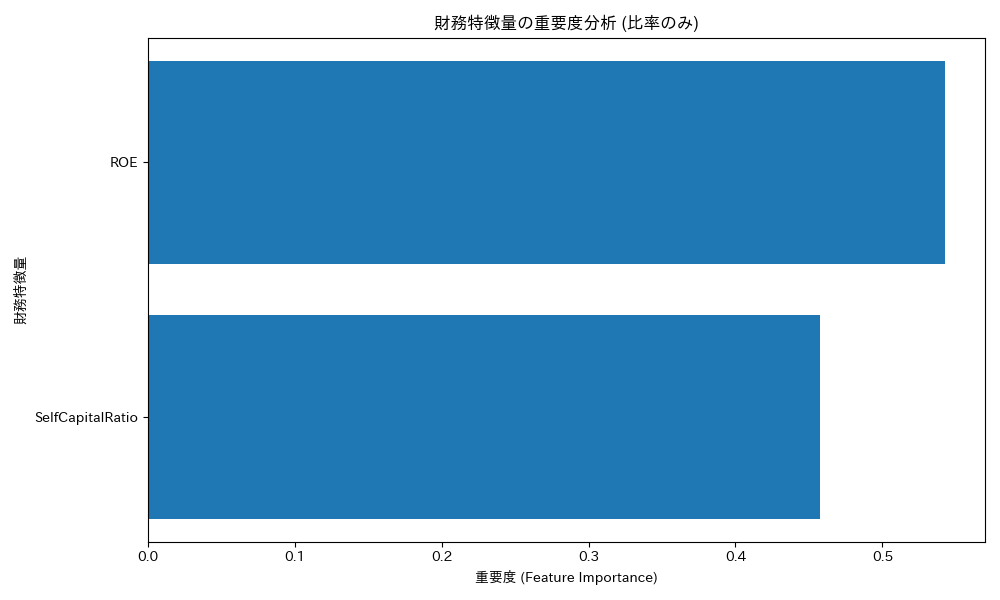
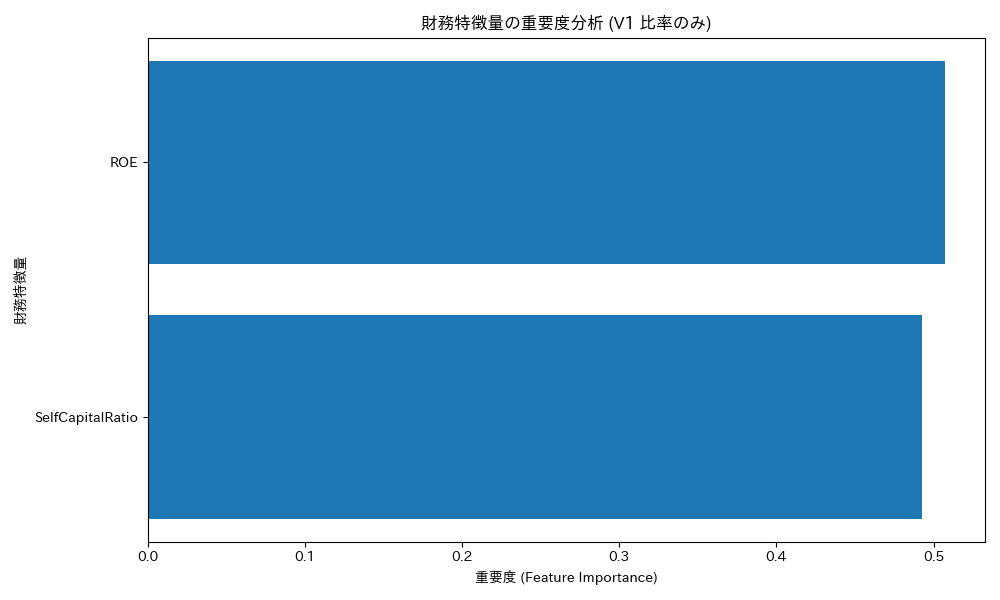
kansei

diff --git a/sisaku/main.py b/sisaku/main.py
@@ -1,11 +1,97 @@
-from datetime import datetime
-from dateutil import tz
-import jquantsapi
+import pandas as pd
+import xgboost as xgb
+from sklearn.metrics import accuracy_score
+import matplotlib.pyplot as plt
+import japanize_matplotlib
 
+# --- 1. データセットの読み込み ---
+try:
+    dataset = pd.read_csv('analysis_dataset_v1_RATIO.csv')
+    dataset['Date'] = pd.to_datetime(dataset['Date'])
+    dataset = dataset.set_index('Date')
+    print("✅ 分析用データセット v1 (比率のみ) の読み込み完了。")
+except FileNotFoundError:
+    print("❌ エラー: 'analysis_dataset_v1_RATIO.csv' が見つかりません。")
+    exit()
 
-cli = jquantsapi.Client(mail_address=my_mail_address, password=my_password)
-df = cli.get_price_range(
-    start_dt=datetime(2022, 7, 25, tzinfo=tz.gettz("Asia/Tokyo")),
-    end_dt=datetime(2022, 7, 26, tzinfo=tz.gettz("Asia/Tokyo")),
-)
-print(df)
+# --- 2. 特徴量 (X) と 目的変数 (y) の準備 ---
+features = [
+    'ROE', 
+    'SelfCapitalRatio'
+]
+X = dataset[features]
+y = dataset['target']
+
+# --- 3. データの分割 (60-20-20の時系列分割) ---
+# ★★★ ここからが修正点 ★★★
+# 60%地点と80%地点の「行番号」を計算
+split_point_1 = int(len(X) * 0.6)
+split_point_2 = int(len(X) * 0.79)
+
+# その「行番号」にある「日付」を取得
+split_date_1 = X.index[split_point_1]
+split_date_2 = X.index[split_point_2]
+
+print(f"\n--- データの分割 ---")
+print(f"全データ期間: {X.index.min()} から {X.index.max()} まで")
+print(f"学習データ (〜60%): 〜 {split_date_1}")
+print(f"テスト1 (60%〜80%): {split_date_1} 〜 {split_date_2}")
+print(f"テスト2 (80%〜100%): {split_date_2} 〜")
+
+# 学習データ (最初の60%)
+X_train = X[X.index < split_date_1]
+y_train = y[y.index < split_date_1]
+
+# テストデータ1 (次の20%)
+X_test1 = X[(X.index >= split_date_1) & (X.index < split_date_2)]
+y_test1 = y[(y.index >= split_date_1) & (y.index < split_date_2)]
+
+# テストデータ2 (最後の20%)
+X_test2 = X[X.index >= split_date_2]
+y_test2 = y[y.index >= split_date_2]
+# ★★★ 修正完了 ★★★
+
+print(f"\n学習データ数: {len(X_train)}")
+print(f"テストデータ1 数: {len(X_test1)}")
+print(f"テストデータ2 数: {len(X_test2)}")
+
+# --- 4. XGBoostモデルの学習 ---
+print("\nXGBoostモデルの学習を開始します...")
+model = xgb.XGBClassifier(objective='binary:logistic', eval_metric='logloss', use_label_encoder=False, base_score=0.5)
+model.fit(X_train, y_train)
+print("✅ 学習完了。")
+
+# --- 5. モデルの評価 ---
+# ★★★ 評価を2回実行 ★★★
+print("\n--- テスト1の評価 ---")
+y_pred1 = model.predict(X_test1)
+accuracy1 = accuracy_score(y_test1, y_pred1)
+print(f"📈 *** V1 テスト1 正解率 (Accuracy): {accuracy1:.4f} ***")
+
+print("\n--- テスト2の評価 ---")
+y_pred2 = model.predict(X_test2)
+accuracy2 = accuracy_score(y_test2, y_pred2)
+print(f"📈 *** V1 テスト2 正解率 (Accuracy): {accuracy2:.4f} ***")
+
+# --- 6. 特徴量の重要度の可視化 ---
+print("\n特徴量の重要度を分析しています...")
+importance_df = pd.DataFrame({
+    'feature': features,
+    'importance': model.feature_importances_
+}).sort_values('importance', ascending=False)
+print("\n--- 特徴量の重要度 ---")
+print(importance_df)
+
+# グラフを描画
+plt.figure(figsize=(10, 6))
+plt.barh(importance_df['feature'], importance_df['importance'])
+plt.xlabel('重要度 (Feature Importance)')
+plt.ylabel('財務特徴量')
+plt.title('財務特徴量の重要度分析 (V1 比率のみ)')
+plt.gca().invert_yaxis()
+plt.tight_layout()
+
+graph_filename = 'feature_importance_v1_RATIO.png'
+plt.savefig(graph_filename)
+print(f"\n📊 特徴量の重要度グラフを '{graph_filename}' として保存しました。")
+plt.show()
